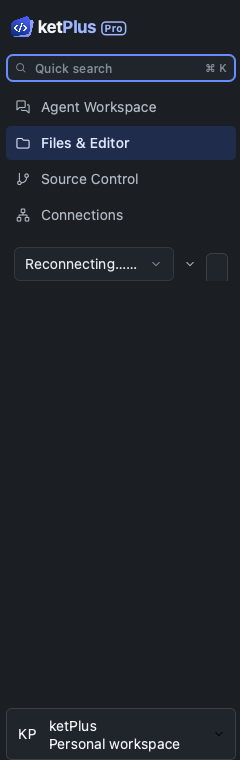
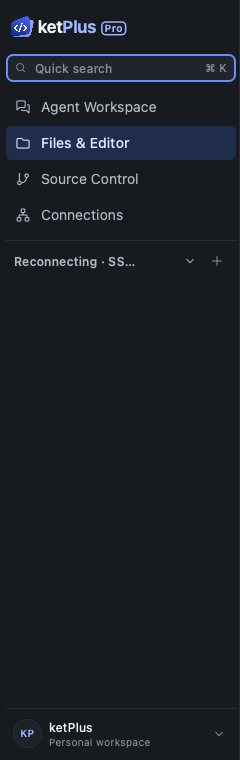
Restore production picker styling and keep popup names first

diff --git a/apps/desktop/src/workspace/ActivityBar.cpp b/apps/desktop/src/workspace/ActivityBar.cpp
@@ -10,7 +10,6 @@
 #include "KetButton.h"
 #include "KetIcons.h"
 #include "KetNavItem.h"
-#include "KetSelect.h"
 #include "KetUpdateCard.h"
 #include "ui/Theme.h"
 #include "ui/TypeScale.h"
@@ -36,12 +35,35 @@
 #include <QSignalBlocker>
 #include <QSizePolicy>
 #include <QStyle>
+#include <QStyleOptionComboBox>
+#include <QStylePainter>
 #include <QTimer>
 #include <QToolButton>
 #include <QVBoxLayout>
 
 namespace ketplus {
 namespace {
+// Keep the popup name-first, but preserve the state in the narrow closed label.
+class MachineSelect final : public QComboBox {
+  public:
+    using QComboBox::QComboBox;
+
+  protected:
+    void paintEvent(QPaintEvent*) override {
+        QStylePainter painter(this);
+        QStyleOptionComboBox option;
+        initStyleOption(&option);
+        const QString closed = currentData(Qt::UserRole + 1).toString();
+        if (!closed.isEmpty()) {
+            const QRect text = style()->subControlRect(QStyle::CC_ComboBox, &option,
+                                                       QStyle::SC_ComboBoxEditField, this);
+            option.currentText = fontMetrics().elidedText(closed, Qt::ElideRight, text.width());
+        }
+        painter.drawComplexControl(QStyle::CC_ComboBox, option);
+        painter.drawControl(QStyle::CE_ComboBoxLabel, option);
+    }
+};
+
 // The sidebar's journal banner opens Settings → Storage when clicked, as in the mock; the
 // banner draws itself and lets the clicks through to this button.
 class StorageNoticeButton final : public QAbstractButton {
@@ -209,13 +231,12 @@ ActivityBar::ActivityBar(QWidget* parent) : QWidget(parent), group_(new QButtonG
     auto* machineLayout = new QHBoxLayout(machineRow);
     chrome_geometry::margins(machineLayout, 8, 0, 8, 0);
     chrome_geometry::spacing(machineLayout, 4);
-    auto* machineSelect = new ket::Select(machineRow);
-    machineSelect_ = machineSelect;
+    machineSelect_ = new MachineSelect(machineRow);
     machineSelect_->setObjectName(QStringLiteral("productMachineSelect"));
     machineSelect_->setAccessibleName(tr("Machine for repositories"));
     machineSelect_->setSizePolicy(QSizePolicy::Expanding, QSizePolicy::Fixed);
     machineSelect_->addItem(tr("This Mac"), QStringLiteral("local"));
-    chrome_geometry::fixedHeight(machineSelect_, machineSelect->recipe().height);
+    chrome_geometry::fixedHeight(machineSelect_, 28);
     connect(machineSelect_, &QComboBox::currentIndexChanged, this, [this](int index) {
         if (index >= 0)
             emit machineRequested(machineSelect_->itemData(index).toString());
@@ -497,8 +518,22 @@ void ActivityBar::setMachines(const QStringList& ids, const QStringList& names,
         return;
     const QSignalBlocker blocker(machineSelect_);
     machineSelect_->clear();
-    for (int i = 0; i < ids.size(); ++i)
-        machineSelect_->addItem(names.at(i), ids.at(i));
+    for (int i = 0; i < ids.size(); ++i) {
+        const QString label = names.at(i);
+        machineSelect_->addItem(label, ids.at(i));
+        auto parts = label.split(QStringLiteral(" · "));
+        if (parts.size() >= 3) {
+            QString state = parts.takeLast();
+            while (state.endsWith(QLatin1Char('.')) || state.endsWith(QChar(0x2026)))
+                state.chop(1);
+            const QString route = parts.takeLast();
+            machineSelect_->setItemData(i,
+                                        state + QStringLiteral(" · ") + route +
+                                            QStringLiteral(" · ") +
+                                            parts.join(QStringLiteral(" · ")),
+                                        Qt::UserRole + 1);
+        }
+    }
     const int selected = machineSelect_->findData(selectedId);
     machineSelect_->setCurrentIndex(selected >= 0 ? selected : 0);
 }

diff --git a/tests/MachineEndToEndTest.cpp b/tests/MachineEndToEndTest.cpp
@@ -1,6 +1,4 @@
 #include "FakeCodex.h"
-#include "KetAppearance.h"
-#include "KetSelect.h"
 #include "KetSidebarTree.h"
 #include "MachineTranscriptRows.h"
 #include "SshFixture.h"
@@ -21,6 +19,7 @@
 #include "ui/Theme.h"
 #include "workspace/ActivityBar.h"
 #include <QScopeGuard>
+#include <QStyleOptionComboBox>
 
 #include <QAbstractItemView>
 #include <QComboBox>
@@ -202,6 +201,7 @@ class MachineEndToEndTest final : public QObject {
         const auto restoreTheme = qScopeGuard([&] { theme.setMode(ThemeManager::Mode::Light); });
         theme.setMode(dark ? ThemeManager::Mode::Dark : ThemeManager::Mode::Light);
         ActivityBar bar;
+        bar.applyPalette(theme.palette(), 100);
         bar.resize(240, 760);
         bar.show();
         QCOMPARE(bar.width(), 240);
@@ -216,18 +216,20 @@ class MachineEndToEndTest final : public QObject {
             const QString label = LinuxMachineModel::pickerLabel(machine);
             bar.setMachines({QStringLiteral("fixture")}, {label}, QStringLiteral("fixture"));
             QCoreApplication::processEvents();
-            auto* select = qobject_cast<ket::Select*>(picker);
-            QVERIFY(select);
-            const auto recipe = select->recipe();
-            const auto& appearance = ket::Appearance::instance();
-            const int textWidth =
-                qFloor(select->width() - appearance.scaled(2 * recipe.paddingInline +
-                                                           recipe.iconSize + recipe.spacing));
-            QFont fieldFont = picker->font();
-            fieldFont.setPixelSize(qRound(appearance.scaled(recipe.fontPixels)));
-            const QString shown =
-                QFontMetrics(fieldFont).elidedText(label, Qt::ElideRight, textWidth);
-            QVERIFY2(shown.startsWith(LinuxMachineModel::stateText(state)), qPrintable(shown));
+            QCOMPARE(picker->currentText(), label); // Popup remains name-first.
+            QVERIFY(label.startsWith(machine.name));
+            const QString closed = picker->currentData(Qt::UserRole + 1).toString();
+            QString stateLabel = LinuxMachineModel::stateText(state);
+            while (stateLabel.endsWith(QLatin1Char('.')) || stateLabel.endsWith(QChar(0x2026)))
+                stateLabel.chop(1);
+            QVERIFY(closed.startsWith(stateLabel + QStringLiteral(" · ")));
+            QVERIFY(!closed.contains(QStringLiteral("...")));
+            QStyleOptionComboBox option;
+            option.initFrom(picker);
+            option.currentText = closed;
+            const QRect text = picker->style()->subControlRect(
+                QStyle::CC_ComboBox, &option, QStyle::SC_ComboBoxEditField, picker);
+            QVERIFY(picker->fontMetrics().horizontalAdvance(stateLabel) <= text.width());
             QVERIFY(picker->geometry().right() < bar.width());
             QVERIFY(picker->parentWidget()->rect().contains(picker->geometry()));
             if (state == LinuxMachine::State::Reconnecting) {

diff --git a/apps/desktop/src/remote/RemoteControlView.cpp b/apps/desktop/src/remote/RemoteControlView.cpp
@@ -878,11 +878,11 @@ QWidget* RemoteControlView::createControlPage() {
     bodyLayout->addWidget(linkedContent_);
     auto* linuxColumn = new QWidget(body);
     linuxColumn->setObjectName(QStringLiteral("linuxMachinesColumn"));
-    auto* linuxColumnLayout = new QVBoxLayout(linuxColumn);
-    chrome_geometry::margins(linuxColumnLayout, 24, 0, 24, 0);
-    chrome_geometry::spacing(linuxColumnLayout, 0);
+    linuxColumnLayout_ = new QVBoxLayout(linuxColumn);
+    chrome_geometry::margins(linuxColumnLayout_, 24, 0, 24, 0);
+    chrome_geometry::spacing(linuxColumnLayout_, 0);
     linuxMachines_ = new LinuxMachinesSection(linuxColumn);
-    linuxColumnLayout->addWidget(linuxMachines_);
+    linuxColumnLayout_->addWidget(linuxMachines_);
     // The page's Add menu shows only once this Mac's relay is linked.
     linuxMachines_->setPairingEntryShown(!configured_);
     connect(linuxMachines_, &LinuxMachinesSection::machinesChanged, this,
@@ -1071,9 +1071,9 @@ void RemoteControlView::applyStatus(const QJsonObject& status) {
         }
     }
     pageHeader_->setVisible(configured_);
-    if (linuxMachines_ && linuxMachines_->parentWidget()->layout())
-        chrome_geometry::margins(linuxMachines_->parentWidget()->layout(), configured_ ? 0 : 24, 0,
-                                 configured_ ? 0 : 24, 0);
+    if (linuxColumnLayout_)
+        chrome_geometry::margins(linuxColumnLayout_, configured_ ? 0 : 24, 0, configured_ ? 0 : 24,
+                                 0);
     unlinkedContent_->setVisible(!configured_);
     linkedContent_->setVisible(configured_);
     linkedFooter_->setVisible(configured_);

diff --git a/tests/LinuxRelayMachinesTest.cpp b/tests/LinuxRelayMachinesTest.cpp
@@ -221,7 +221,7 @@ class LinuxRelayMachinesTest : public QObject {
         QVERIFY(!LinuxMachineModel::hostAway(machine, now));
         QCOMPARE(LinuxMachineModel::presenceText(machine, now), QStringLiteral("Host online"));
         QCOMPARE(LinuxMachineModel::pickerLabel(machine),
-                 QStringLiteral("Connected · Relay · builder"));
+                 QStringLiteral("builder · Relay · Connected"));
 
         relay.setListed({{QStringLiteral("relay-1"), pinned, QStringLiteral("builder"),
                           now.addSecs(-10 * 60)}});
@@ -231,7 +231,7 @@ class LinuxRelayMachinesTest : public QObject {
         QCOMPARE(LinuxMachineModel::presenceText(machine, now),
                  QStringLiteral("Host offline, last seen 10 min ago"));
         QCOMPARE(LinuxMachineModel::pickerLabel(machine),
-                 QStringLiteral("Host offline · Relay · builder"));
+                 QStringLiteral("builder · Relay · Host offline"));
         QCOMPARE(linuxMachineBadgeText(machine, true), QStringLiteral("Host offline"));
         machine.hostLastSeen = now.addSecs(-3 * 3600);
         QCOMPARE(LinuxMachineModel::presenceText(machine, now),

diff --git a/apps/desktop/src/remote/LinuxMachineModel.cpp b/apps/desktop/src/remote/LinuxMachineModel.cpp
@@ -282,9 +282,7 @@ QString LinuxMachineModel::pickerLabel(const LinuxMachine& machine) {
         machine.state == LinuxMachine::State::Connected &&
         hostAway(machine, QDateTime::currentDateTimeUtc()))
         state = tr("Host offline");
-    // Preserve the state at narrow sidebar widths before the route and machine name
-    // are elided by the picker. The popup keeps the complete label.
-    return tr("%1 · %2 · %3").arg(state, routeText(machine.route), machine.name);
+    return tr("%1 · %2 · %3").arg(machine.name, routeText(machine.route), state);
 }
 
 QString validateSshHost(const QString& host) {

diff --git a/apps/desktop/src/remote/RemoteControlView.h b/apps/desktop/src/remote/RemoteControlView.h
@@ -86,6 +86,7 @@ class RemoteControlView final : public QWidget {
     QWidget* linkedContent_{nullptr};
     QWidget* linkedFooter_{nullptr};
     LinuxMachinesSection* linuxMachines_{nullptr};
+    QVBoxLayout* linuxColumnLayout_{nullptr};
     RemoteActivitySection* activity_{nullptr};
     QLabel* notice_{nullptr};
     QLabel* welcomeNotice_{nullptr};

diff --git a/docs/evidence/machine-picker-alignment/README.md b/docs/evidence/machine-picker-alignment/README.md
@@ -5,10 +5,12 @@ RemoteControlView, using temporary INI settings and synthetic machine data. No
 installed application, user workspace or provider is opened for the geometry captures.
 
 - `picker-240-{light,dark}.png`: 240×760 sidebar, long synthetic machine name,
-  Reconnecting state. The kit Select keeps the complete state at the start and
-  elides the remaining label within its recipe text rectangle. Its full control
-  geometry remains inside its parent. The state text itself includes an ellipsis.
-- `picker-240-open-{light,dark}.png`: the popup shows the complete label.
+  Reconnecting state. The production-styled borderless combo keeps the complete
+  state at the start of its closed label, removes the state's progress dots, and
+  elides the remaining label using the public QStyle text rectangle. Its full control
+  geometry remains inside its parent. `applyPalette` applies the production sidebar
+  appearance before capture.
+- `picker-240-open-{light,dark}.png`: the popup keeps the machine name first, with the route and state trailing it.
 - `signed-out-alignment-{light,dark}.png`: 1100×900 Connections view. The Linux
   heading and introduction share the 24 px inset of the centered page body
   (69 px from the window at this width). The same geometry is checked at 760 px.
@@ -18,4 +20,5 @@ Reproduce with `QT_QPA_PLATFORM=offscreen`,
 `pickerPreservesStateAtDefaultSidebarWidth`; use
 `KETPLUS_CONNECTIONS_CAPTURE=<scratch>` with the remote-workspace test function
 `signedOutIntroFollowsTheMockAtEveryWidth` for Connections. The picker test checks
-all four connection states in both themes and restores Light after each row.
+all four connection states in both themes, keeps popup names first, and restores
+Light after each row.

diff --git a/docs/testing.md b/docs/testing.md
@@ -251,7 +251,7 @@ stage/install and check the runtime outside the Qt SDK; see
 
 The machine picker geometry regression also mounts the real ActivityBar at 240 px
 in light/dark and checks all four connection states remain readable before the
-trailing machine name is elided. `ketplus_remote_workspace_tests` checks that the
+trailing route/name is elided in the closed label; the popup stays name-first. `ketplus_remote_workspace_tests` checks that the
 signed-out Linux section shares the introduction's 24 px column at wide/narrow widths.
 
 `ketplus_machine_end_to_end_tests` (macOS Desktop, offscreen) is the #419
